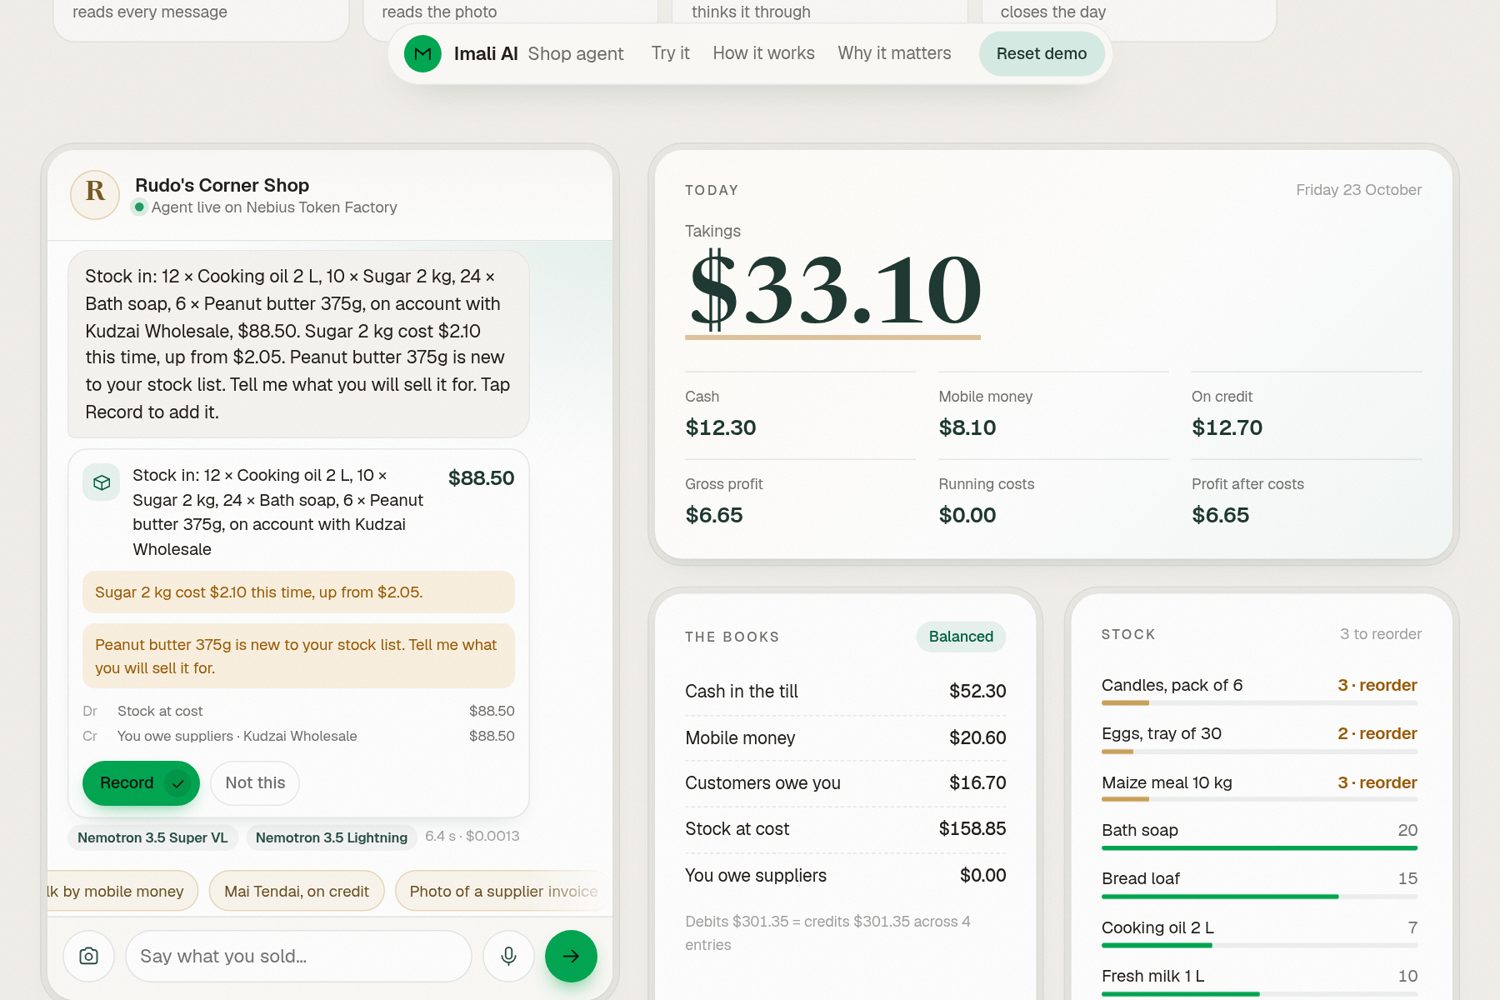
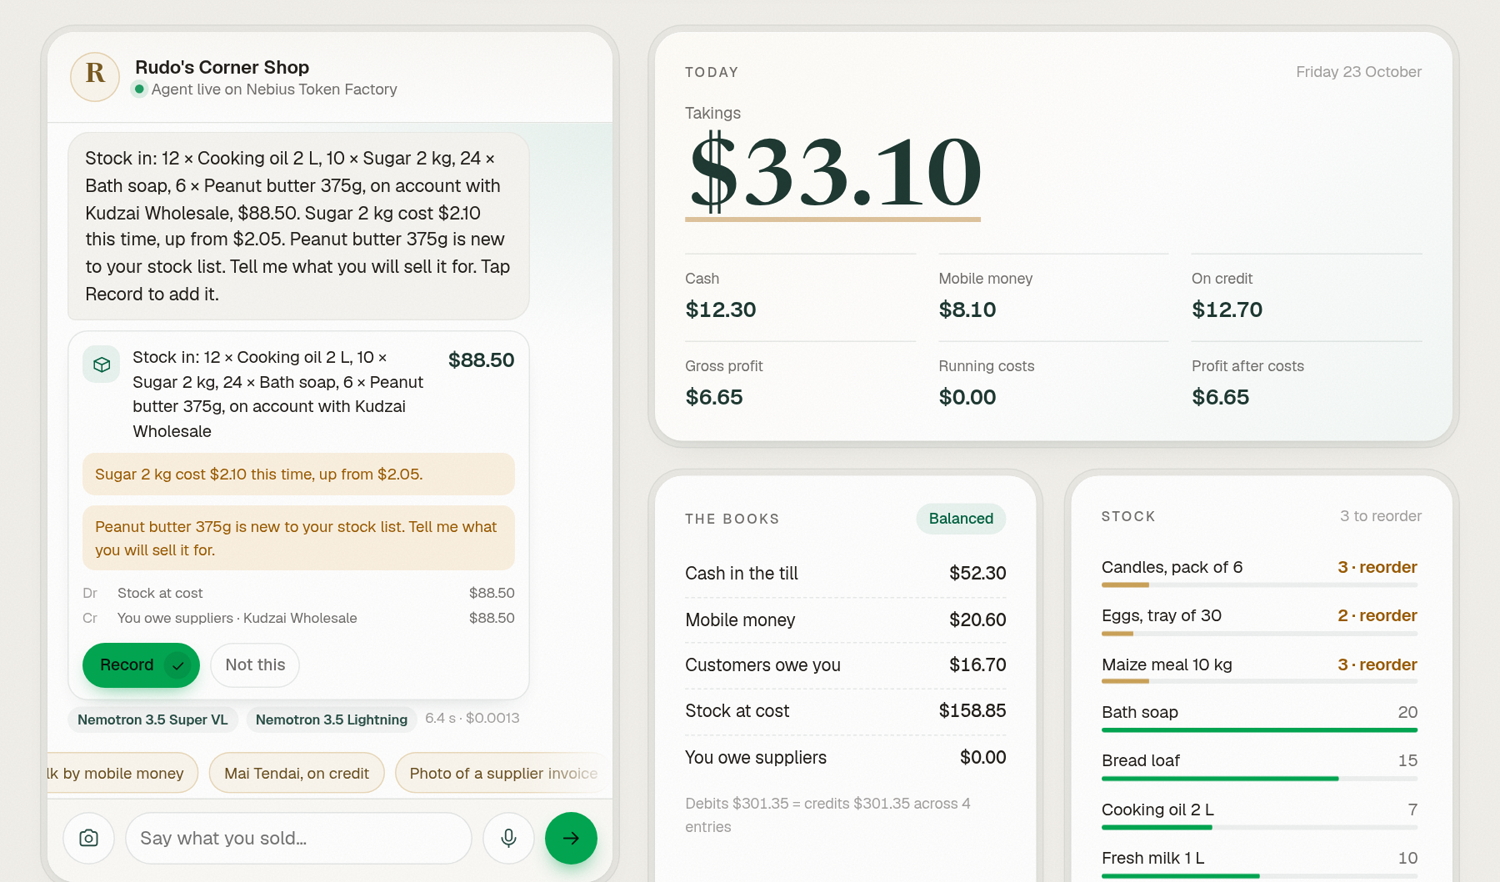
Point the README at the new 2:56 film, crop the menu out of its screenshot, and make the entry's thumbnail with the gallery pictures

diff --git a/README.md b/README.md
@@ -3,7 +3,7 @@
 **Say what you sold. Ask what you made.** A shop owner types a line, speaks it or photographs a supplier's invoice. The agent turns it into the sale, the stock and double-entry books, checks every figure in plain code, and records nothing until the owner taps Record. It runs on four NVIDIA Nemotron models served by Nebius Token Factory, with Tavily reading the banks' rate pages when a customer pays in ZiG or rand.
 
 - Live demo: https://imali-ai-shop-agent.vercel.app
-- Film (2:32): https://youtu.be/MKX0xmoecNM
+- Film (2:56): https://youtu.be/WW27hUF0C8M
 - Built for the Nebius × NVIDIA Global AI Hackathon, Best Apps and Agents track
 - Open source under the MIT licence. The shop, people, invoice and figures in the demo are invented.
 
